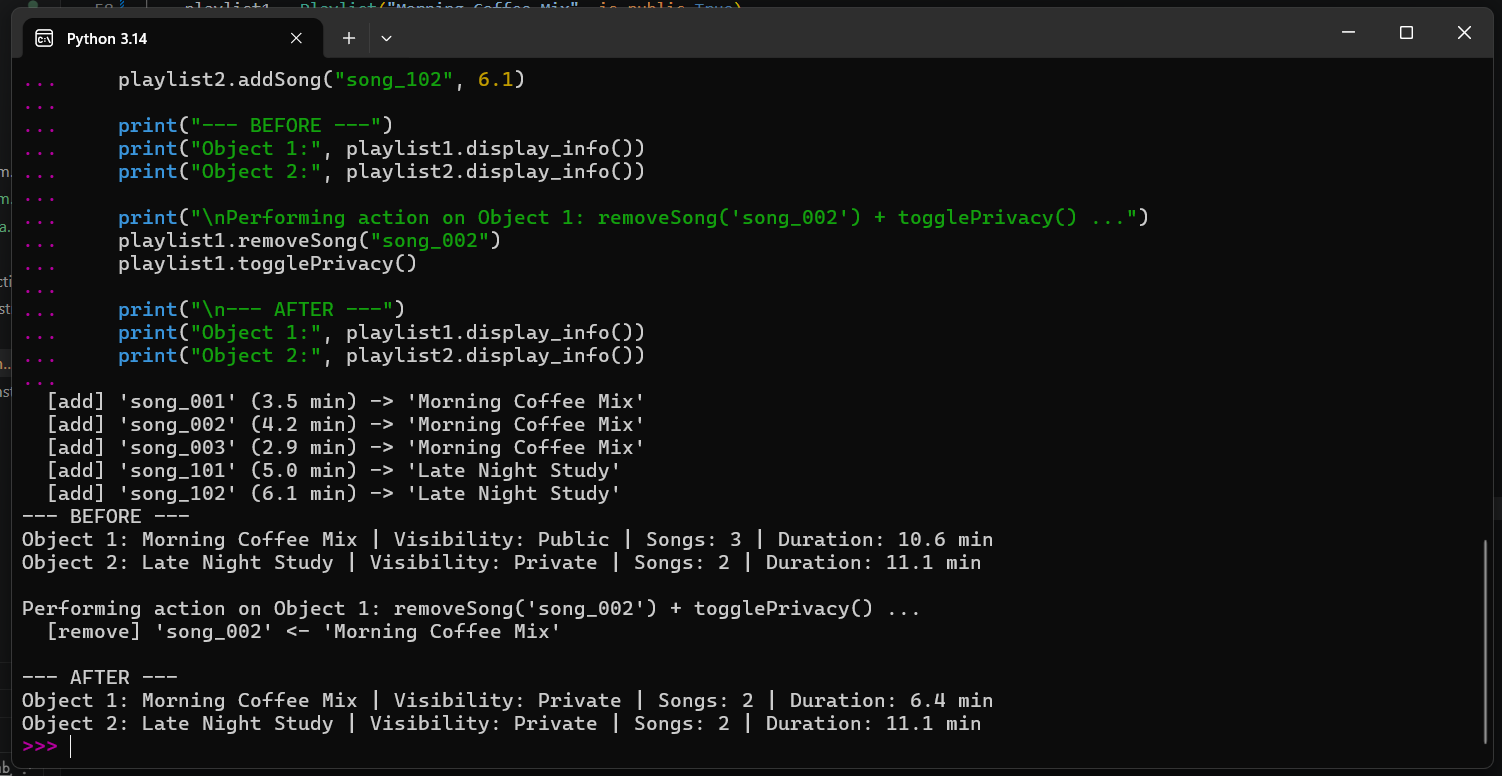
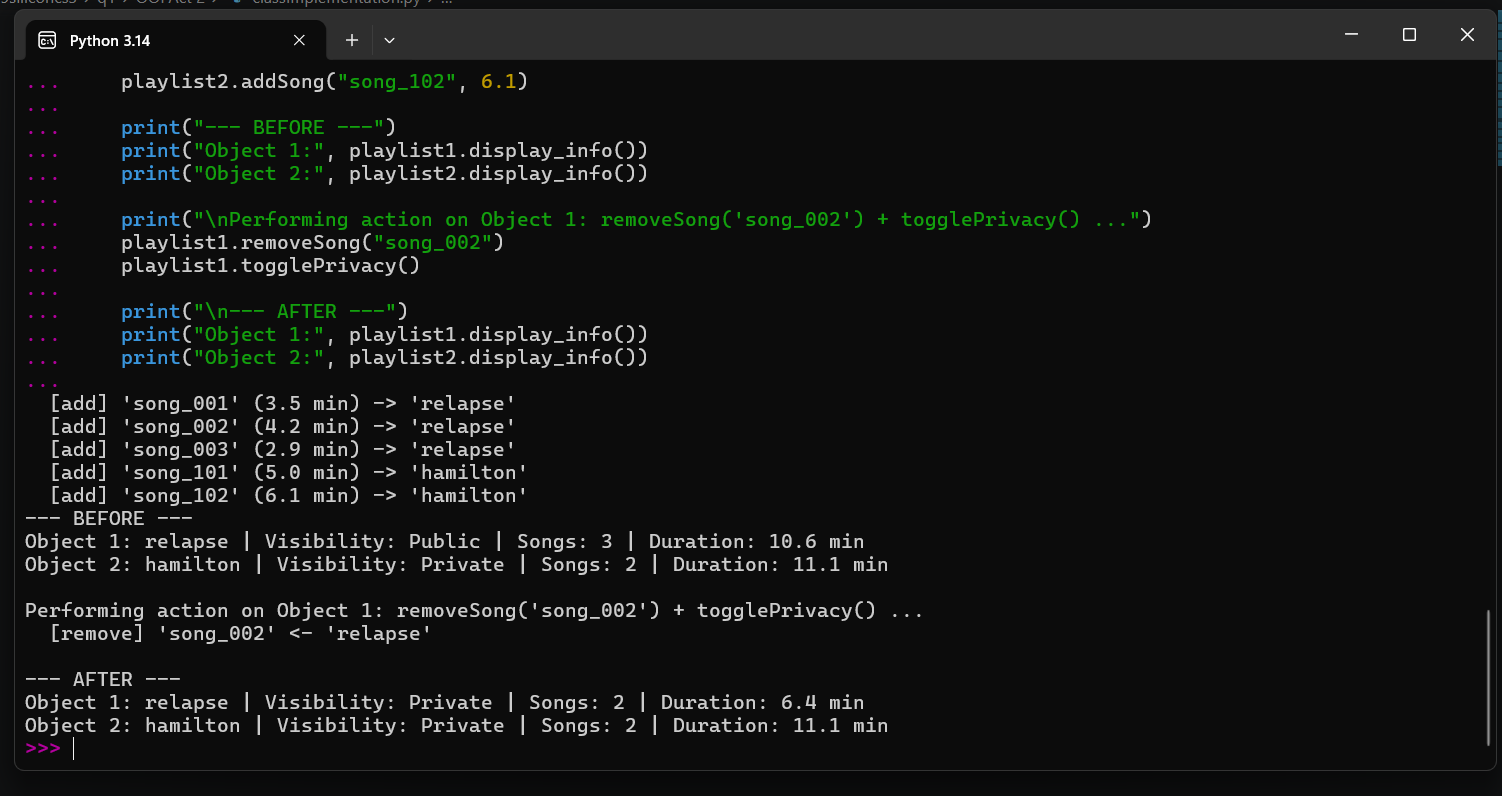
OOPAct 2 and images

diff --git a/q1/OOPAct 2/classImplementation.py b/q1/OOPAct 2/classImplementation.py
@@ -55,8 +55,8 @@ class Playlist:
 
 
 if __name__ == "__main__":
-    playlist1 = Playlist("Morning Coffee Mix", is_public=True)
-    playlist2 = Playlist("Late Night Study", is_public=False)
+    playlist1 = Playlist("relapse", is_public=True)
+    playlist2 = Playlist("hamilton", is_public=False)
 
     playlist1.addSong("song_001", 3.5)
     playlist1.addSong("song_002", 4.2)

diff --git a/q1/OOPAct 2/classAttributesMethods.md b/q1/OOPAct 2/classAttributesMethods.md
@@ -1,0 +1,47 @@
+# Class Attributes and Methods
+
+## Previous Design
+Link to my previous activity:
+[classObjectUML.md](classObjectUML.md)
+
+## Design Revision
+Changes from my previous design:
+- `addSong` now takes a second parameter, `duration : double`, alongside `songId`, so that `totalDuration` can be updated accurately every time a song is added (the original signature only had `songId`).
+- `songCount` and `totalDuration` are now **private**. In the original design they were plain public properties, but they are really values that should only ever change as a side effect of `addSong()`/`removeSong()`, not be set directly from outside the class.
+- Added two small getter methods, `getSongCount()` and `getTotalDuration()`, so other code can still safely *read* those private values without being able to overwrite them.
+- The class name, context (a music-streaming Playlist), and the three original methods (`addSong`, `removeSong`, `togglePrivacy`) all stayed the same.
+
+## Visibility Decisions
+
+| Attribute | Data Type | Visibility | Reason |
+|---|---|---|---|
+| name | string | Public | Other parts of the app (search, display, sharing) need to read the playlist's title directly, and there's no risk in exposing it. |
+| isPublic | boolean | Public | The UI and other features need to check a playlist's visibility directly (e.g. to decide whether to show it in a public feed); `togglePrivacy()` is still the intended way to *change* it. |
+| songCount | int | Private | This must always equal the number of songs actually stored in the playlist. If outside code could set it directly, it could easily go out of sync with the real contents. |
+| totalDuration | double | Private | Same reasoning as songCount — it's a calculated value that depends on which songs are actually in the playlist, so it should only change through `addSong()`/`removeSong()`. |
+
+## Updated UML Class Diagram
+![Class Diagram](images/classDiagramSG5.png)
+
+## Python Implementation
+[View Python Source](classImplementation.py)
+
+## Test Run
+![Test Run](images/classTestRun.png)
+
+## Object Diagram
+![Object Diagram](images/objectDiagram.png)
+
+## Analysis
+
+### Why did you make your chosen attribute private?
+I made `songCount` and `totalDuration` private because both values are supposed to be a direct reflection of the songs that are actually stored in the playlist, not numbers anyone can set randomly. If they were public, another part of the program could accidentally set `playlist.songCount = 50` without ever adding 50 songs, or set `totalDuration` to a number that no longer matches the real songs in the list. That would break the whole point of the class, since anything that trusts these numbers — like a screen showing "12 songs, 45 minutes" — could end up displaying completely wrong information. Keeping them private and only changing them inside `addSong()` and `removeSong()` guarantees they always stay in sync with the actual song data.
+
+### Which method changes the state of your object?
+`addSong()` changes an object's state by adding the new `songId`/duration pair into the internal song storage, then increasing `songCount` by one and adding the song's duration to `totalDuration`. `removeSong()` does the reverse — it deletes the song entry and decreases both `songCount` and `totalDuration`. `togglePrivacy()` also changes state, flipping `isPublic` between `True` and `False`. In my test run, calling `playlist1.removeSong("song_002")` dropped Object 1's song count from 3 to 2 and lowered its duration from 10.6 to 6.4 minutes, and `togglePrivacy()` switched its visibility from Public to Private.
+
+### How did your two objects demonstrate that instances are independent?
+`playlist1` ("relapse") and `playlist2` ("hamilton") were both created from the same `Playlist` class but started with different songs, song counts, and durations. After I called `removeSong()` and `togglePrivacy()` on `playlist1` only, the BEFORE/AFTER output showed playlist1's song count drop from 3 to 2, its duration drop from 10.6 to 6.4 minutes, and its visibility flip to Private — while playlist2 still showed the exact same song count (2), duration (11.1), and visibility (Private) as before. That proves each object keeps its own separate copy of the attributes in memory, so changing one Playlist object has no effect on any other Playlist object.
+
+### What is the difference between your class diagram and your object diagram?
+My class diagram shows the `Playlist` blueprint in general terms — attribute names, their data types, and method signatures — but no actual values, because a class describes what *every* playlist could look like. My object diagram shows two specific playlists, `playlist1` and `playlist2`, with their real final values after Step 7 (e.g. `playlist1`'s `songCount = 2` and `totalDuration = 6.4`, versus `playlist2`'s `songCount = 2` and `totalDuration = 11.1`). In short, the class diagram describes the template, and the object diagram describes real instances created from that template at one specific moment in the program.
